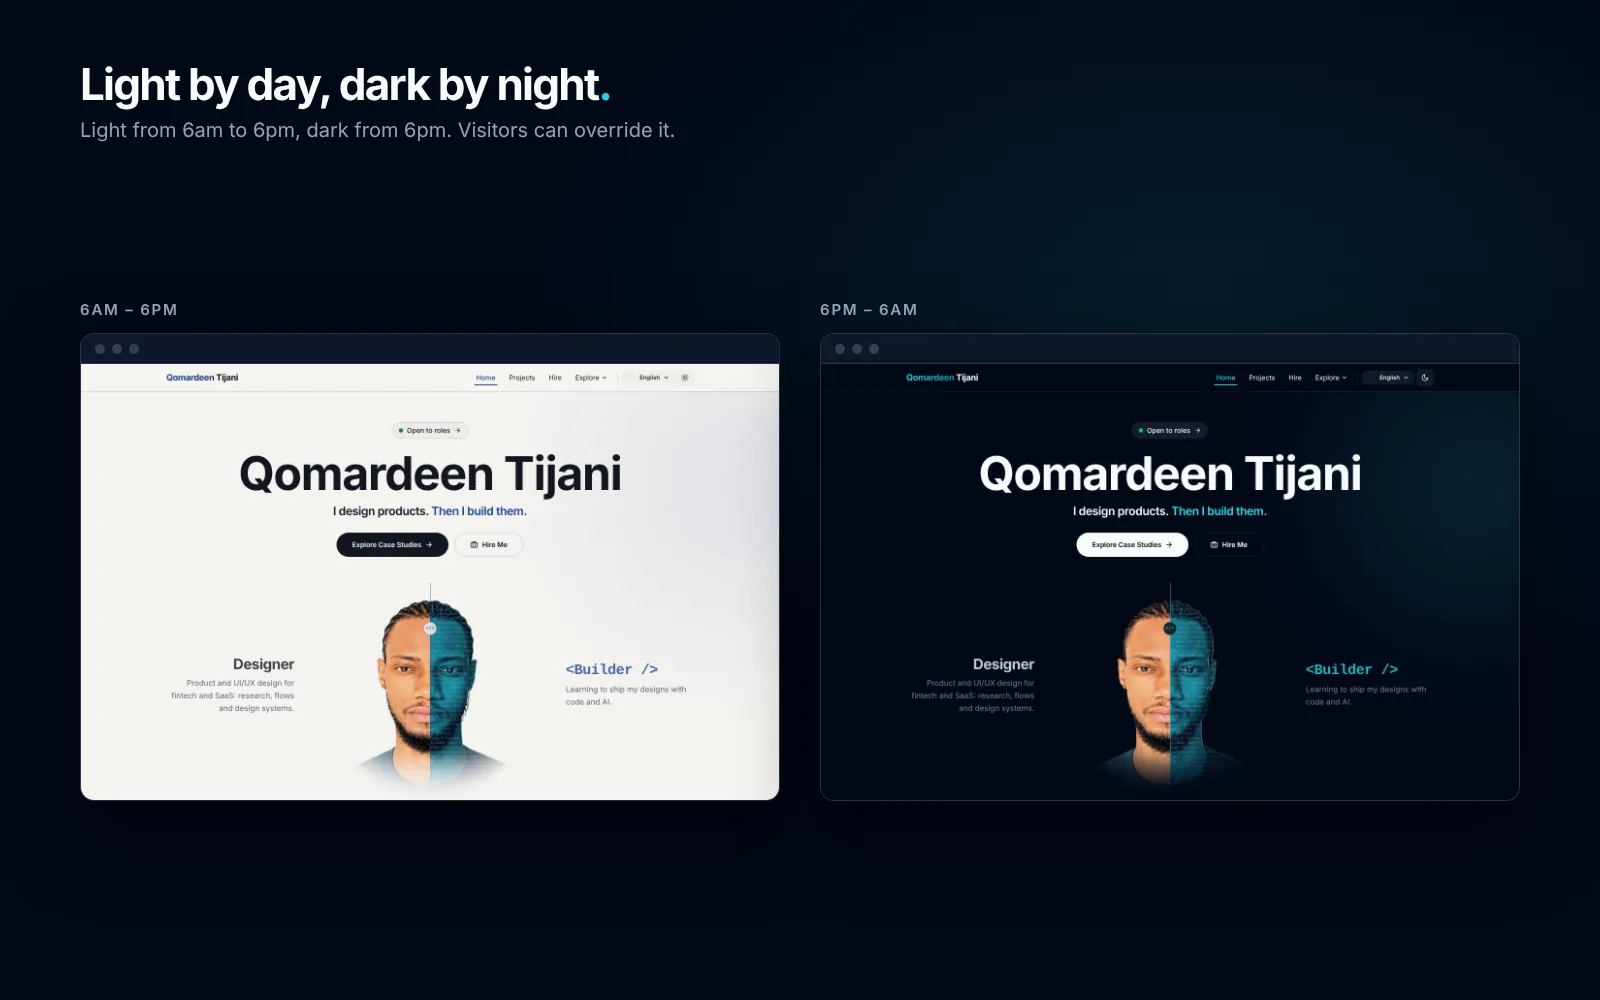
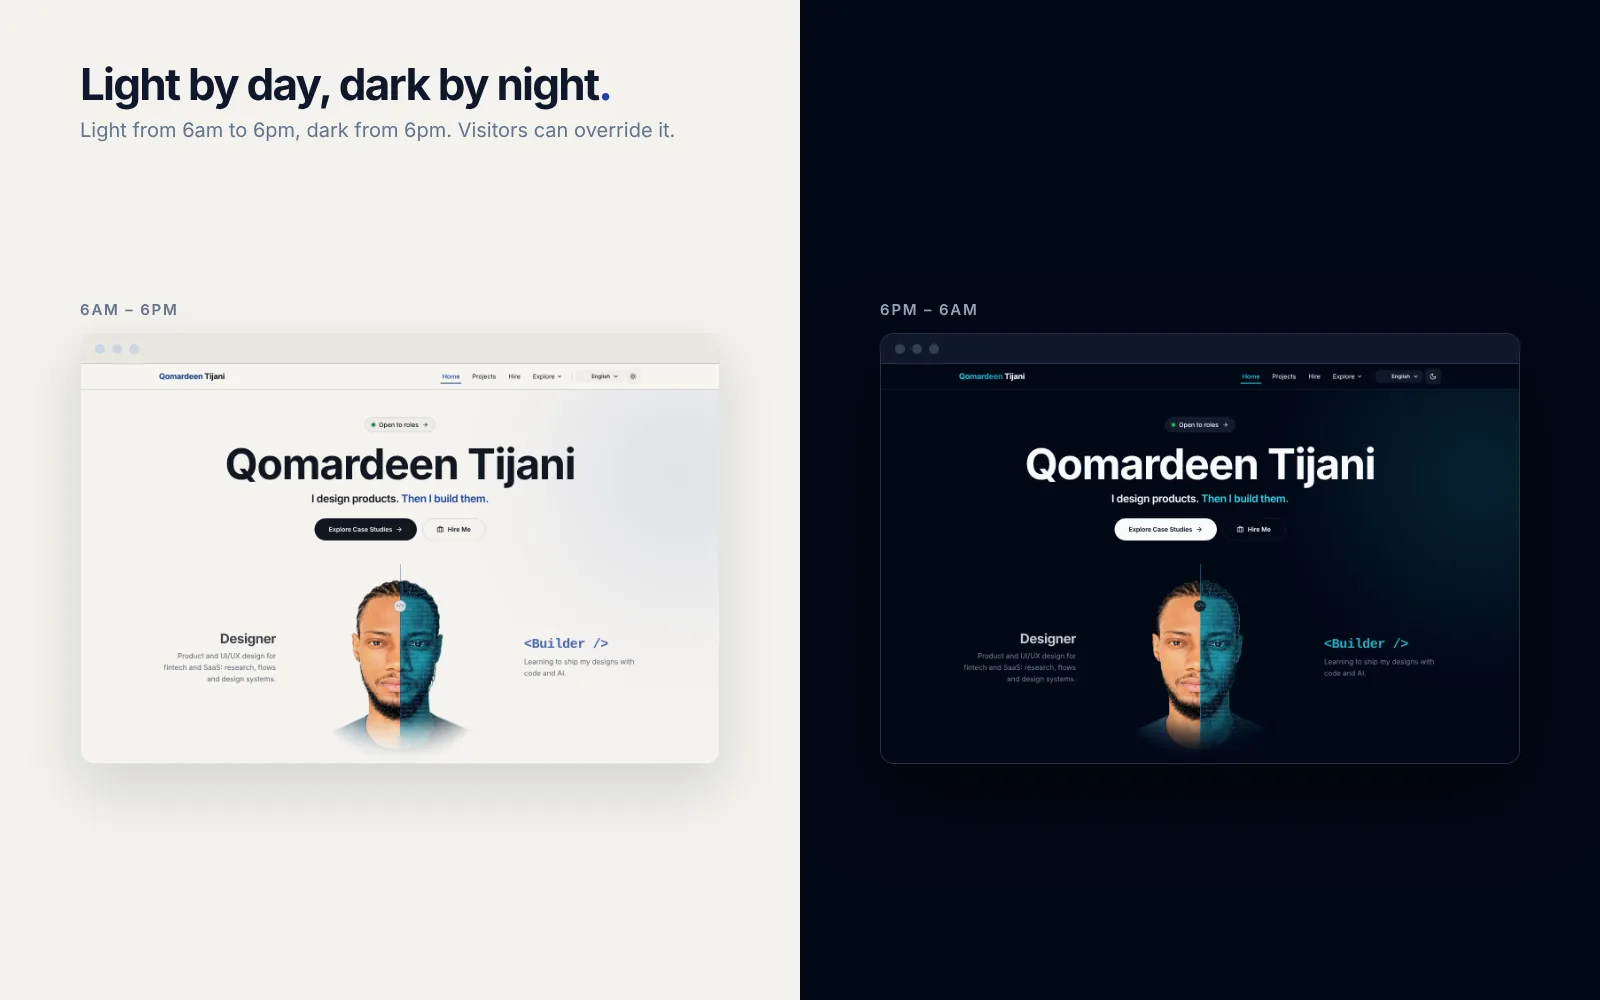
Portfolio case study: light-mode frames and the admin
- Home, One system and On a phone frames now use light mode; Light by day / dark by night is a split frame
- New frame and section: The studio behind the site (admin screenshot, email blurred) and why it exists
- Atlas knows about the admin and two-step sign-in
- Admin overview: 'New Case Study' (was 'New Case Studie'), updated case study description

Claude-Session: https://claude.ai/code/session_01687LJkgQdeKSy2oJw1wWwJ

diff --git a/src/pages/PortfolioProject.tsx b/src/pages/PortfolioProject.tsx
@@ -20,6 +20,8 @@ import system from '@/assets/portfolio/system.webp';
 import footer from '@/assets/portfolio/footer.webp';
 import themes from '@/assets/portfolio/themes.webp';
 import phones from '@/assets/portfolio/phones.webp';
+import admin from '@/assets/portfolio/admin.webp';
+import adminOverview from '@/assets/portfolio/admin-overview.webp';
 
 /*
  * Case study of this site. Every number here was measured on the real site:
@@ -35,8 +37,10 @@ const frames = [
   { src: system, alt: 'Projects and About pages sharing the same opening and type scale', label: 'One system across pages' },
   { src: footer, alt: 'Footer before (863px tall) and after (162px tall)', label: 'The footer: 863px to 162px' },
   { src: themes, alt: 'Home page in light mode and dark mode', label: 'Light by day, dark by night' },
-  { src: phones, alt: 'Home, Hire and Projects pages on a phone', label: 'On a phone' },
+  { src: phones, alt: 'Home, Projects and About pages on a phone, in light mode', label: 'On a phone' },
+  { src: admin, alt: 'The admin: the overview, and the articles list with an on/off switch on each (email blurred)', label: 'The studio: my own admin' },
 ];
+const ADMIN_FRAME = frames.length - 1;
 
 const story = [
   {
@@ -106,13 +110,20 @@ const decisions = [
   {
     title: 'Everything editable from my own admin, with an on/off switch',
     why: 'I should not need code, or credits, to fix a typo or swap a project. Case studies, articles, my CV and hero photos all live in the admin, and anything can be switched off while I rework it.',
-    cost: 'More to build up front: roles, an editor, image uploads and security rules so visitors only ever see what is switched on.',
+    cost: 'More to build up front: roles, an editor, image uploads, two-step sign-in and security rules so visitors only ever see what is switched on.',
   },
   {
     title: 'Eleven languages, including Yoruba, Hausa, Igbo and Pidgin',
     why: 'I am a Nigerian designer applying locally and abroad. Speaking a visitor\'s language, at home or overseas, is a small signal that I think about who is on the other side of the screen.',
     cost: 'Every copy change is eleven changes. Case study text stays in English for now.',
   },
+];
+
+/* Why the site has its own admin ("the studio"). */
+const studio = [
+  { title: 'Change it in minutes', body: 'A typo, a new CV or a new case study is a form to fill in, not a code change. Content no longer costs me Lovable credits or a developer.' },
+  { title: 'Switch off instead of delete', body: 'Anything can be hidden while I rework it, then switched back on exactly as it was. Visitors never see a half-finished page.' },
+  { title: 'Locked down', body: 'Only my account can publish, and visitors only ever see what is switched on. Signing in needs a code from an authenticator app as well as the password.' },
 ];
 
 /* How the work was actually split between me, Lovable and Claude. */
@@ -131,7 +142,7 @@ const iDid = [
 const claudeDid = [
   'Wrote most of the code changes, from the footer to the on/off switches',
   'Translated new copy into all 11 languages',
-  'Audited and fixed security issues in the backend functions',
+  'Audited and fixed security issues, and added two-step sign-in to the admin',
   'Tested every change at 1440, 768, 375 and 320px, in both themes',
 ];
 
@@ -220,6 +231,39 @@ const PortfolioProject = () => {
                     </li>
                   ))}
                 </ol>
+              </div>
+            </section>
+
+            {/* The admin behind the site */}
+            <section className="section-padding">
+              <div className="container-custom">
+                <div className="grid lg:grid-cols-[minmax(0,5fr)_minmax(0,7fr)] gap-8 lg:gap-14 lg:items-start">
+                  <ScrollReveal>
+                    <h2 className="t-h2 mb-3">The studio behind the site</h2>
+                    <p className="text-muted-foreground leading-relaxed max-w-xl">
+                      A portfolio goes stale when changing it is hard, so the site has its own admin. Case studies, articles, the About page, hero photos, my CV, messages from visitors and Atlas's memory are all edited there, without code.
+                    </p>
+                    <ul className="mt-6">
+                      {studio.map(w => (
+                        <li key={w.title} className="border-t border-border py-4">
+                          <h3 className="t-h3 mb-1">{w.title}</h3>
+                          <p className="text-sm text-muted-foreground leading-relaxed">{w.body}</p>
+                        </li>
+                      ))}
+                    </ul>
+                  </ScrollReveal>
+                  <ScrollReveal delay={0.1}>
+                    <button
+                      type="button"
+                      onClick={() => openViewer(ADMIN_FRAME)}
+                      className="block w-full overflow-hidden rounded-2xl border border-border bg-card cursor-zoom-in focus:outline-none focus-visible:ring-2 focus-visible:ring-ring focus-visible:ring-offset-2 focus-visible:ring-offset-background"
+                      aria-label="The admin: open full screen"
+                    >
+                      <img src={adminOverview} alt="The admin overview: published, draft and scheduled counts, shortcuts to create content, and recent activity (email blurred)" loading="lazy" decoding="async" className="w-full h-auto" />
+                    </button>
+                    <p className="mt-3 text-sm text-muted-foreground">The overview. Tap to see it next to the on/off switches. My email is blurred.</p>
+                  </ScrollReveal>
+                </div>
               </div>
             </section>
 

diff --git a/src/lib/cms.ts b/src/lib/cms.ts
@@ -99,12 +99,12 @@ export interface ContentItem {
   updated_at: string;
 }
 
-export const CONTENT_TYPES: { value: ContentType; label: string; path: string; blurb: string }[] = [
-  { value: 'case_study', label: 'Case Studies', path: 'case-studies', blurb: 'In-depth product design case studies with scroll storytelling and galleries.' },
-  { value: 'article', label: 'Articles', path: 'articles', blurb: 'Long-form essays on product design, UX and systems.' },
-  { value: 'thinking', label: 'Thinking', path: 'thinking', blurb: 'Short opinion pieces, teardowns and design lessons.' },
-  { value: 'architecture', label: 'Architecture', path: 'architecture', blurb: 'PRDs, system design, user flows and decision logs.' },
-  { value: 'resource', label: 'Resources', path: 'resources', blurb: 'Templates, checklists, kits and downloads.' },
+export const CONTENT_TYPES: { value: ContentType; label: string; one: string; path: string; blurb: string }[] = [
+  { value: 'case_study', label: 'Case Studies', one: 'Case Study', path: 'case-studies', blurb: 'Product design case studies: a short story, then every frame.' },
+  { value: 'article', one: 'Article', label: 'Articles', path: 'articles', blurb: 'Long-form essays on product design, UX and systems.' },
+  { value: 'thinking', one: 'Thinking', label: 'Thinking', path: 'thinking', blurb: 'Short opinion pieces, teardowns and design lessons.' },
+  { value: 'architecture', one: 'Architecture', label: 'Architecture', path: 'architecture', blurb: 'PRDs, system design, user flows and decision logs.' },
+  { value: 'resource', one: 'Resource', label: 'Resources', path: 'resources', blurb: 'Templates, checklists, kits and downloads.' },
 ];
 
 export const typeToPath = (t: ContentType) =>

diff --git a/supabase/functions/ai-chat/knowledge.ts b/supabase/functions/ai-chat/knowledge.ts
@@ -67,7 +67,7 @@ export const KNOWLEDGE = `
 - Do not quote outcome percentages for WalPay; none were measured.
 
 # Case study: This portfolio (/projects/portfolio)
-- What: the site the visitor is on, designed by Qomardeen and built first in Lovable, then improved with Claude. Role: designer & builder (solo). Started in 2025 and still ongoing. Responsive, 11 languages.
+- What: the site the visitor is on, designed by Qomardeen and built first in Lovable, then improved with Claude. Role: designer & builder (solo). Started in 2025 and still ongoing. Responsive, 11 languages. It has its own admin ("the studio") where Qomardeen edits case studies, articles, the About page, hero photos and his CV without code, can switch anything off instead of deleting it, and signs in with a password plus a code from an authenticator app (two-step sign-in).
 - Problem: the first version said a lot and showed little ("designer at the intersection of UX, AI and systems thinking"); Hire, Contact and the footer repeated each other; every page had its own layout.
 - Measured results (same 1440px screen width, before vs after): footer 863px → 162px (81% less height); Hire page 5,615px → 4,360px (22% shorter); Hire sections 8 → 6 with a single "Book a call"; 11 languages; every change checked at 4 screen widths (1440, 768, 375, 320) in light and dark mode.
 - Key decisions and trade-offs:

diff --git a/src/pages/admin/Dashboard.tsx b/src/pages/admin/Dashboard.tsx
@@ -49,7 +49,7 @@ const Dashboard = () => {
             >
               <Icon3D variant="primary" size="sm"><Plus className="w-4 h-4" /></Icon3D>
               <div>
-                <p className="text-sm font-medium">New {t.label.replace(/s$/, '')}</p>
+                <p className="text-sm font-medium">New {t.one}</p>
                 <p className="text-xs text-muted-foreground mt-0.5">{t.blurb}</p>
               </div>
             </Link>
